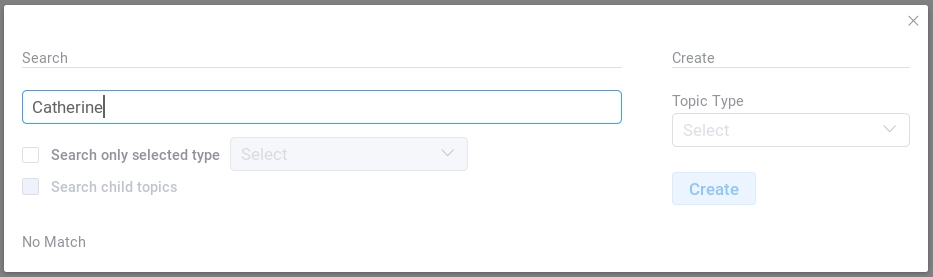
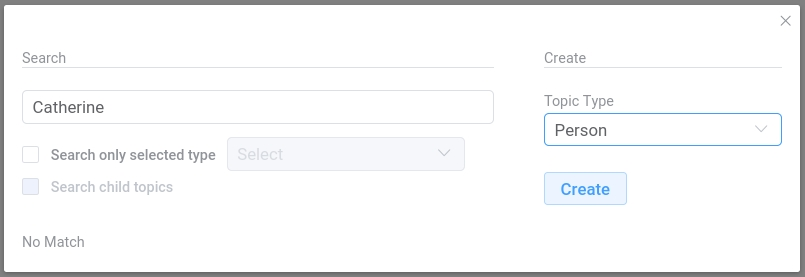
Updates to the beginners' tutorial

diff --git a/docs/tutorial.rst b/docs/tutorial.rst
@@ -15,7 +15,7 @@ To get started with DMX you can
 A first look at DMX
 *******************
 
-When you first look at a new installation of DMX and open the web client, this is what you'll see:
+When you first look at a new DMX instance, this is what you see:
 
 .. figure:: _static/upper-toolbar.png
     :alt: Tool bar with workspace and topicmap selection
@@ -29,7 +29,7 @@ Click it to reveal detail about the selected Topicmap or Workspace.
 
 .. For the moment the most interesting information is the access control. **The first default workspace and the default topicmap are in SharingMode "public" that is: They are not private, but world-readable.** This is important to keep in mind if you are trying DMX on our public demo site or if you installed it on a server that is connected to the internet. You can find out more about access control in the section about :ref:`Collaboration and Sharing<user-collaboration-and-sharing>`.
 
-For more information visit our detailed guide to the :ref:`user interface<user-the-dmx-user-interface>` in the DMX User Guide.
+For more information visit our detailed guide to the :ref:`user interface<user-the-dmx-user-interface>`.
 
 .. _tutorial-adding-your-first-topic:
 
@@ -37,14 +37,13 @@ For more information visit our detailed guide to the :ref:`user interface<user-t
 Adding your first topic
 ***********************
 
-Right-click into the emptiness of the topicmap.
+Right-click somewhere into the topicmap.
 A dialog appears that lets you search all your content.
 This is the :ref:`Search/Create Dialog<user-the-search-create-dialog>`.
-Now let's create something!
 
 .. image:: _static/search-create.png
 
-DMX wants to make sure that you do not create something that already exists.
+DMX makes sure that you do not create anything that already exists.
 That's why you enter whatever you want to create into the search field.
 Let's assume you want to enter all persons and organizations involved in a project.
 Enter a person's first name.
@@ -58,31 +57,32 @@ It represents a person with the name you just entered and it states that this is
 
 .. image:: _static/person-in-map-details.png
 
-But what if you entered a person's given name and surname into the search/create dialog?
+If you enter a person's given name *and* surname into the search/create dialog, DMX interprets both as first name:
 The result would look like this:
 
 .. image:: _static/person-wrong-first-name.png
 
-DMX interpreted both as first name.
-Let's correct this:
-Long-press the rectangle and select "edit" from the :ref:`context menu <user-the-context-menu>`.
+To correct it long-press the rectangle and select "edit" from the :ref:`context menu <user-the-context-menu>`.
 On the right-hand side the :ref:`detail panel <user-the-detail-panel>` shows up.
 
 .. image:: _static/context-menu-edit.png
 
-When "editing", the detail panel shows all the fields you might need to describe a person.
+While you edit, the detail panel shows all fields you might need to describe a person.
 Correct the first name and click the "Save" button at the very bottom.
 
-Now let's add a second topic. Right-click on the empty background, enter e.g. "Notes for the interview" into the dialog, select the topic type "Note" and click "Create".
+Add a second topic:
+Right-click on the empty background, enter e.g. "Notes for the interview" into the dialog, select the topic type "Note" and click "Create".
 
 .. image:: _static/person-and-note.png
 
-Let's add another topic, e.g. "Organization No. 1".
-This time we select "Organization" from the list of topic types and press "Create".
+Add another topic, e.g. "Organization No. 1".
+Select "Organization" from the list of topic types and press "Create".
 
 .. image:: _static/person-note-organization.png
 
-This is just a short walkthrough to help you create your first topics in DMX. :ref:`Content Authoring<user-content-authoring>` is described in-depth in the DMX User Guide. Now let's describe the relations between our items.
+This is just a short walkthrough to help you create your first topics in DMX.
+:ref:`Content Authoring<user-content-authoring>` is described in-depth in the DMX User Guide.
+The next section is about the relations between the topics.
 
 .. _tutorial-adding-your-first-association:
 
@@ -91,7 +91,8 @@ Adding your first association
 *****************************
 
 To create an :ref:`association <user-creating-an-association>` between two topics you grab the little dot at the upper border of one of the two topics.
-As we prepare for our interview let's say the "Note for the interview" shall be related to the person "Cathy Jones".
+If the dot is not visible, hover over the topic with your mouse.
+In this example the note shall be related to the person "Cathy Jones".
 
 .. image:: _static/create-simple-association-1.png
 
@@ -99,14 +100,12 @@ Drag it onto the other topic until the topic is highlighted by a blue border.
 
 .. image:: _static/create-simple-association-2.png
 
-Then drop the association on the "Notes for the interview" item and release your mouse pointer. 
+Then drop the association on the "Notes for the interview" item and release your mouse button. 
 
 The association will be created and a rectangle appears.
 These are the :ref:`in-map details <user-in-map-details>` of the newly created association.
 They tell you that this is association is of type "Association" which is the most generic form of association in DMX.
-
-Using the Drag & Drop gesture start on the blue dot above your new item to create an association between two topics.
-Click somewhere onto the topicmap to close the in-map-details of the association.
+Click somewhere onto the topicmap to close the in-map details of the association.
 
 ****************************************************
 A glimpse into Personal Information Management (PIM)
@@ -120,16 +119,15 @@ DMX comes with some predefined topic types that you saw in the topic type menu o
 - Event
 - Bookmark
 
-Now there are also some predefined association types.
-One of those association types is called "Organizational Involvement" and it describes the role a Person can have in an Organization.
+There are also some predefined association types.
+One of those association types is called "Organizational Involvement" and it describes the role a person can have in an organization.
 
-So let's specify the persons role in that organization through creating another association.
-We grab the little dot above "Cathy Jones" and drag & drop the line on "Organization No. 1".
-The in-map details show up again and indeed, DMX automatically created an association of type "Organizational Involvement".
+To specify the person's role in the organization, create an association from "Cathy Jones" to the "Organization No. 1".
+The in-map details show up again.
+DMX automatically created an association of type "Organizational Involvement".
 
 .. image:: _static/create-organization-association.png
 
-Next, we want to describe "Cathy Jones" exact role in "Organization No. 1".
 Right-click onto the association to open the context menu and select "Edit".
 
 .. image:: _static/edit-organization-association.png
@@ -143,13 +141,12 @@ For your changes to take effect click "Save".
 
 .. image:: _static/organization-association.png
 
-Now this is a more meaningful association.
+Now this is a meaningful association.
 If you right-click and select "Related" on "Organization No. 1" you see how the role can be useful when navigating in DMX.
 If you have entered more than one person, you can scroll down in the detail panel to see all persons and their respective roles in the organization.
 
 .. image:: _static/organizational-roles.png
 
-Great! We've prepared for our interview with "Cathy Jones" and learned how to create topics and how to work with associations. That's it for this short tutorial.
-
+In this short tutorial, we showed how to create topics and how to work with associations.
 In DMX you are free to define your own topic types and association types.
 Find out more about it in the section about :ref:`Modeling<user-modeling>`.
